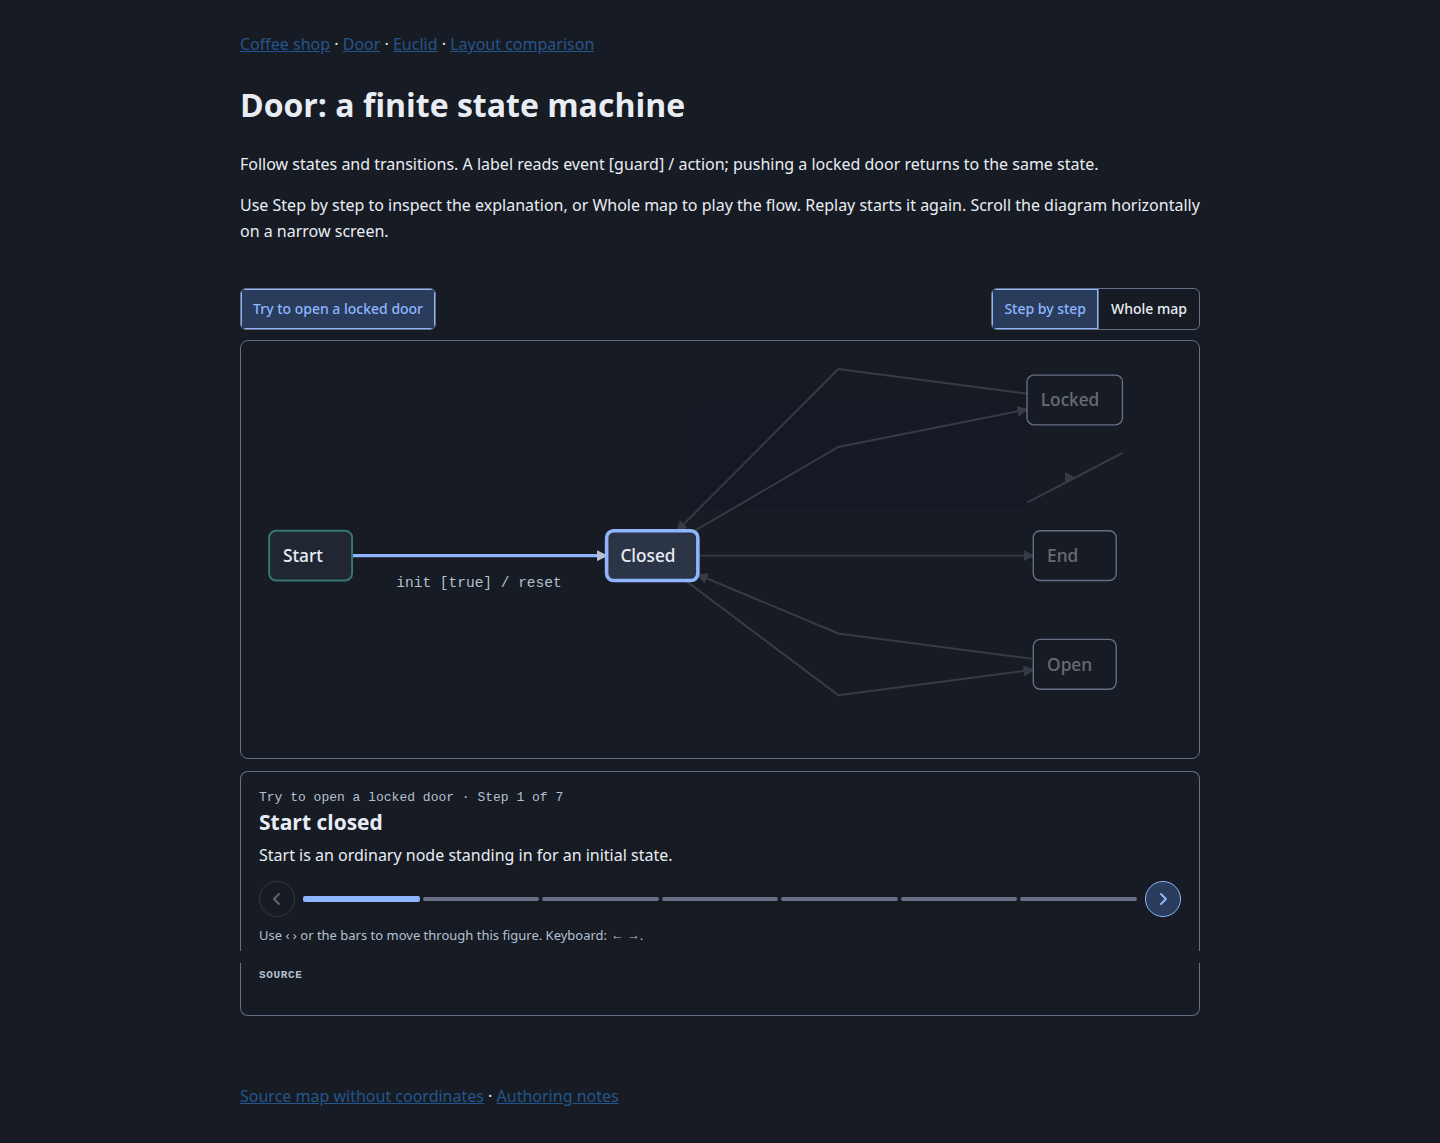
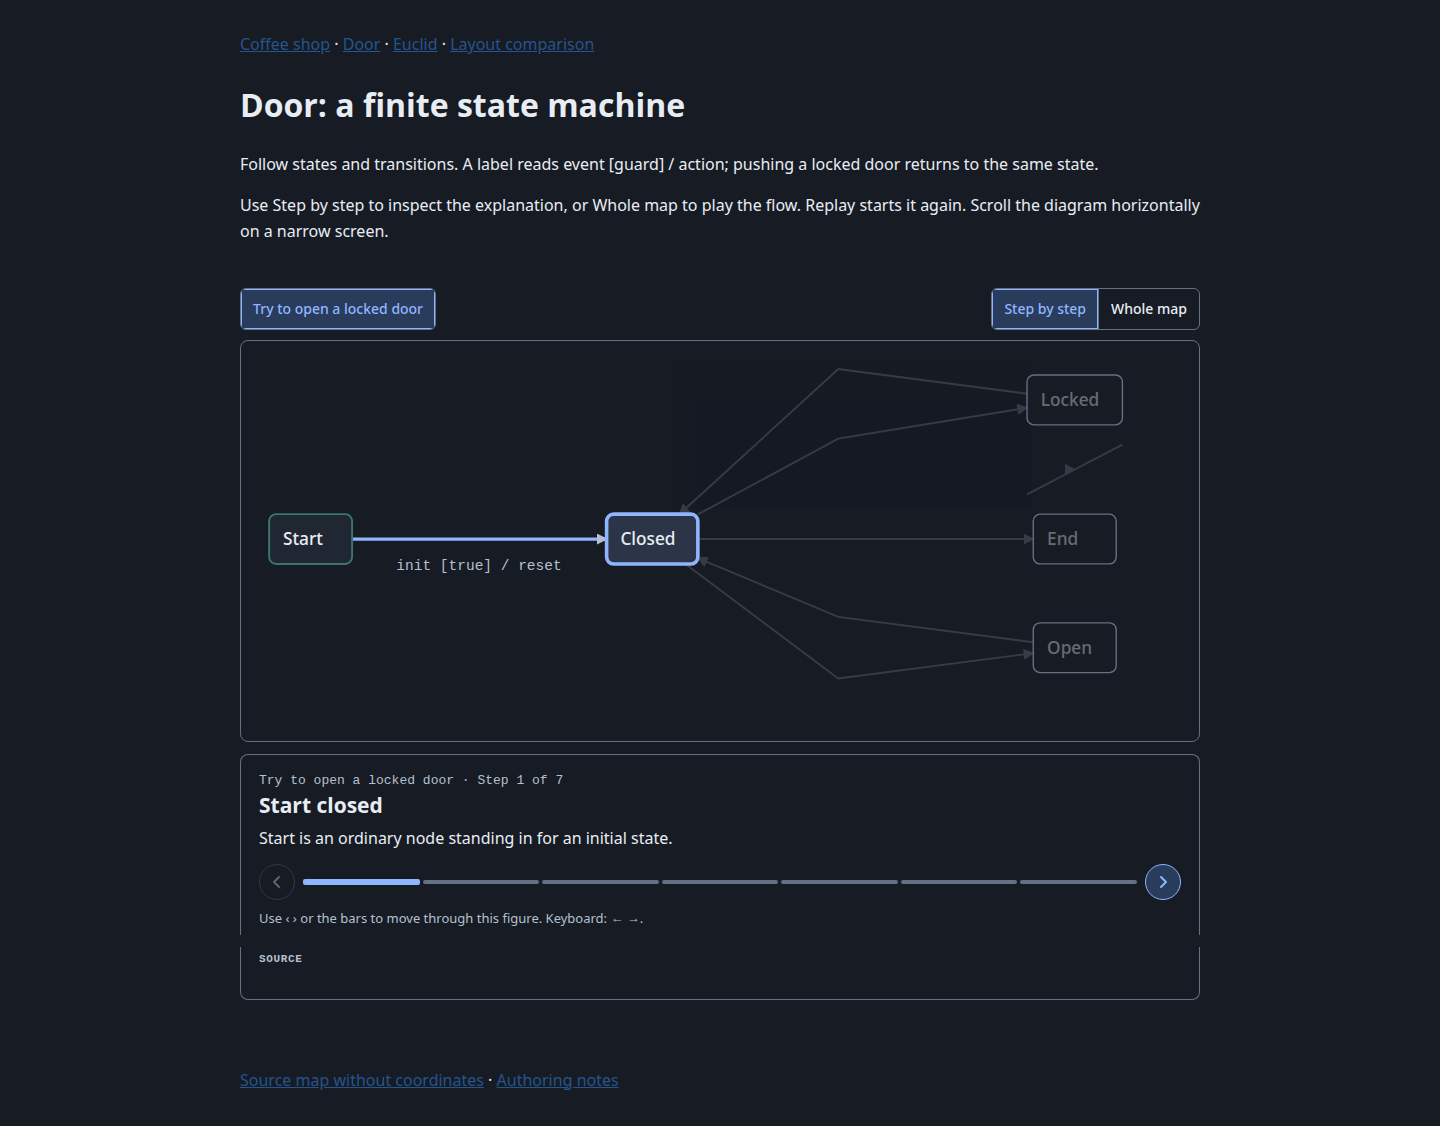
fix: preserve reserved space for self-transition labels

diff --git a/test/unit/layout/edge-labels.test.ts b/test/unit/layout/edge-labels.test.ts
@@ -46,3 +46,22 @@ for (const direction of ["down", "right"] as const)
       ).toBeGreaterThanOrEqual(64);
     });
   }
+
+test("dagre keeps a self-transition label in its reserved gap", async () => {
+  const { readFileSync } = await import("node:fs");
+  const { layout, measureLabel } = await import("../../../src/layout/index");
+  const source = JSON.parse(readFileSync("examples/door/map.json", "utf8"));
+  const map = await layout(source, dagreEngine),
+    label = map.edges.blocked.label!;
+  const size = measureLabel(label.text, { fontSize: 10.5, mono: true });
+  for (const {
+    box: [x, y, w, h],
+  } of Object.values(map.nodes)) {
+    expect(
+      label.at[0] + size.width <= x ||
+        label.at[0] >= x + w ||
+        label.at[1] <= y ||
+        label.at[1] - size.height >= y + h,
+    ).toBe(true);
+  }
+});

diff --git a/src/layout/dagre.ts b/src/layout/dagre.ts
@@ -28,7 +28,8 @@ function dagreGraph(graph: LayoutGraph, nodes: LayoutNode[]) {
       {
         width: e.label?.width ?? 0,
         height: e.label?.height ?? 0,
-        labelpos: "r",
+        // Self-edges already have a separate dummy label lane.
+        labelpos: e.from === e.to ? "c" : "r",
         labeloffset: 12,
       },
       `e:${e.id}`,

diff --git a/docs/evidence/edge-labels/README.md b/docs/evidence/edge-labels/README.md
@@ -1,0 +1,23 @@
+# Arrow label checks
+
+The screenshots compare the base implementation with this fix using Chromium
+at 1440 × 1100 for the three examples and 1800 × 1200 for the comparison.
+Both light and dark host colours are included. Reduced motion keeps playback
+stable while capturing the whole-map view.
+
+Example HTML is served with its pinned CDN JavaScript and CSS URLs replaced by
+the local build (`npm run build && npm run demo:build`). Source maps and page
+styles are otherwise unchanged. Dark colours are supplied through the existing
+`--cmap-*` properties.
+
+Run `npm run comparison:build` to regenerate the comparison page. The
+`before/comparison` and `after/comparison` folders contain all 24 map sections,
+including all three layout columns. Those captures force ghost labels and edges
+to full opacity so every label can be inspected, including labels outside the
+initial scenario. The smaller coffee comparison captures retain normal step
+visibility.
+
+Geometry tests cover both directions, with and without lanes, and the reserved
+space for self-transition labels. Browser tests check background colour,
+paint order and stroke width in both themes. The halo applies to all labels,
+including hand layouts and ELK, while side placement is specific to Dagre.
